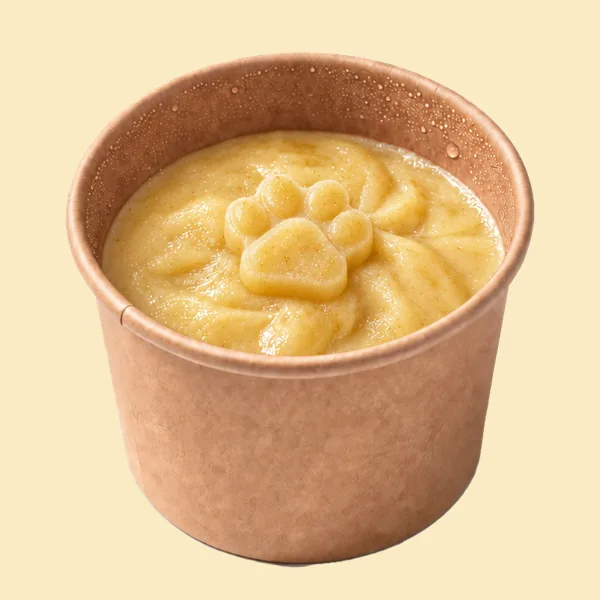
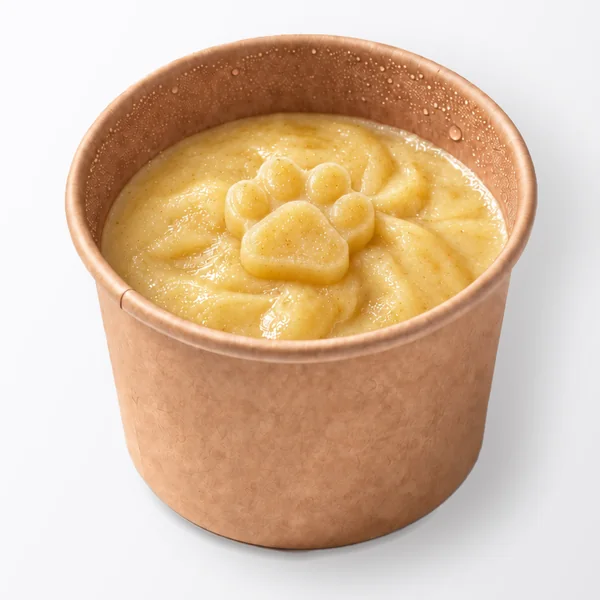
Upsell: same-name items grouped into one card with size choice; natural shadows on ice cream photos

diff --git a/js/results.js b/js/results.js
@@ -6,7 +6,7 @@
 (function () {
   const API = () => (window.PAWOLOGY_API_URL || "").trim();
   const cache = {};
-  let st = { status: "idle", stage: "form", key: "", data: null, selected: null, extras: {}, hp: "",
+  let st = { status: "idle", stage: "form", key: "", data: null, selected: null, extras: {}, extraVariant: {}, hp: "",
     contact: { name: "", phone: "", link: "", address: "", about: "" } };
   let el = null;
   let notify = () => {};
@@ -154,27 +154,54 @@
   // «100» → «100 г» / «100 g»; если единицы уже вписаны — как есть
   const weightText = (w) => (/^\d+([.,]\d+)?$/.test(String(w).trim()) ? String(w).trim() + (Store.get().lang === "en" ? " g" : " г") : w);
 
-  function extraCard(x, i) {
-    const sel = st.extras[x.id];
+  // товары с одинаковым названием — одна карточка с выбором граммовки (50 / 100 г …)
+  function extraGroups() {
+    const map = new Map();
+    extrasList().forEach((x) => {
+      const key = String(x.title.ru || x.id).trim().toLowerCase();
+      if (!map.has(key)) map.set(key, []);
+      map.get(key).push(x);
+    });
+    return [...map.values()].map((variants) => {
+      const base = variants.find((v) => v.img) || variants[0];
+      const sorted = variants.slice().sort((p, q) => (parseFloat(p.weight) || 0) - (parseFloat(q.weight) || 0));
+      return { id: variants[0].id, base, variants: sorted };
+    });
+  }
+  const groupById = (id) => extraGroups().find((g) => g.id === id);
+  const currentVariant = (g) => {
+    const vid = (st.extras[g.id] && st.extras[g.id].variant) || st.extraVariant[g.id] || g.variants[0].id;
+    return g.variants.find((v) => v.id === vid) || g.variants[0];
+  };
+
+  function priceHtml(x) {
+    return x.price ? `${x.oldPrice ? `<s>${x.oldPrice}₾</s>` : ""}<b>${x.price}₾</b>${x.discount ? `<span>(−${x.discount}%)</span>` : ""}` : "";
+  }
+
+  function extraCard(g, i) {
+    const x = g.base;
+    const v = currentVariant(g);
+    const sel = st.extras[g.id];
     const color = sel ? sel.color : x.colors && x.colors[0].id;
-    const price = x.price ? `<p class="x-card__price">
-        ${x.oldPrice ? `<s>${x.oldPrice}₾</s>` : ""}<b>${x.price}₾</b>${x.discount ? `<span>(−${x.discount}%)</span>` : ""}
-      </p>` : "";
-    return `<li class="x-item q-anim" style="--i:${i}">
+    const many = g.variants.length > 1;
+    return `<li class="x-item q-anim" style="--i:${i}" data-group="${g.id}">
       <div class="x-card ${sel ? "is-added" : ""}">
         <div class="x-card__top">
           <div class="x-card__photo ${x.img ? "" : "x-card__photo--empty"}" data-icon="${x.icon}">${x.img ? `<img src="assets/img/extras/${esc(x.img)}.webp" alt="" loading="lazy" onerror="this.parentNode.classList.add('x-card__photo--empty');this.parentNode.textContent=this.parentNode.dataset.icon">` : x.icon}</div>
           <div class="x-card__text">
-            <h4 class="x-card__title">${esc(L(x.title))}${x.weight ? `<span class="x-card__weight">${esc(weightText(x.weight))}</span>` : ""}</h4>
-            ${price}
+            <h4 class="x-card__title">${esc(L(x.title))}${!many && v.weight ? `<span class="x-card__weight">${esc(weightText(v.weight))}</span>` : ""}</h4>
+            <p class="x-card__price">${priceHtml(v)}</p>
           </div>
         </div>
         ${L(x.sub) ? `<p class="x-card__desc">${esc(L(x.sub))}</p>` : ""}
+        ${many ? `<div class="x-card__colors" role="radiogroup" aria-label="${t("ext.weight")}">
+          ${g.variants.map((w) => `<button type="button" class="x-chip" role="radio" data-extra-variant="${g.id}" data-value="${w.id}" aria-checked="${w.id === v.id}">${esc(weightText(w.weight) || "—")}</button>`).join("")}
+        </div>` : ""}
         ${x.colors ? `<div class="x-card__colors" role="radiogroup" aria-label="${t("ext.color")}">
-          ${x.colors.map((c) => `<button type="button" class="x-color" role="radio" data-extra-color="${x.id}" data-value="${c.id}" aria-checked="${c.id === color}" style="--c:${c.hex}"><i></i>${esc(L(c.title))}</button>`).join("")}
+          ${x.colors.map((c) => `<button type="button" class="x-color" role="radio" data-extra-color="${g.id}" data-value="${c.id}" aria-checked="${c.id === color}" style="--c:${c.hex}"><i></i>${esc(L(c.title))}</button>`).join("")}
         </div>` : ""}
       </div>
-      <button type="button" class="x-card__add" data-extra="${x.id}" aria-pressed="${!!sel}">${sel ? "✓ " + t("ext.added") : "+ " + t("ext.add")}</button>
+      <button type="button" class="x-card__add" data-extra="${g.id}" aria-pressed="${!!sel}">${sel ? "✓ " + t("ext.added") : "+ " + t("ext.add")}</button>
     </li>`;
   }
 
@@ -184,14 +211,16 @@
         <h3 class="r-h">${t("ext.title", { name })}</h3>
         <p class="q-sub">${t("ext.sub")}</p>
       </div>
-      <ul class="x-list">${extrasList().map(extraCard).join("")}</ul>`;
+      <ul class="x-list">${extraGroups().map(extraCard).join("")}</ul>`;
     notify();
   }
 
   function extrasForLead() {
-    return extrasList().filter((x) => st.extras[x.id]).map((x) => {
-      const c = x.colors && x.colors.find((k) => k.id === st.extras[x.id].color);
-      return x.title.ru + (c ? " (" + c.title.ru + ")" : "");
+    return extraGroups().filter((g) => st.extras[g.id]).map((g) => {
+      const v = currentVariant(g);
+      const c = g.base.colors && g.base.colors.find((k) => k.id === st.extras[g.id].color);
+      return g.base.title.ru + (g.variants.length > 1 && v.weight ? " " + weightText(v.weight) : "")
+        + (c ? " (" + c.title.ru + ")" : "") + (v.price ? " — " + v.price + " ₾" : "");
     });
   }
 
@@ -258,18 +287,30 @@
       }
       const add = e.target.closest("[data-extra]");
       if (add) {
-        const x = (window.EXTRAS || []).find((k) => k.id === add.dataset.extra);
+        const g = groupById(add.dataset.extra);
         const item = add.closest(".x-item");
         const card = item.querySelector(".x-card");
-        if (st.extras[x.id]) delete st.extras[x.id];
-        else st.extras[x.id] = { color: x.colors ? (card.querySelector('[aria-checked="true"]') || {}).dataset?.value || x.colors[0].id : null };
+        if (st.extras[g.id]) delete st.extras[g.id];
+        else {
+          const col = card.querySelector("[data-extra-color][aria-checked='true']");
+          st.extras[g.id] = { variant: currentVariant(g).id, color: g.base.colors ? (col ? col.dataset.value : g.base.colors[0].id) : null };
+        }
         // меняем только эту карточку — без перерисовки всего экрана
-        const on = !!st.extras[x.id];
+        const on = !!st.extras[g.id];
         item.classList.remove("q-anim");
         card.classList.toggle("is-added", on);
         add.setAttribute("aria-pressed", String(on));
         add.textContent = on ? "✓ " + t("ext.added") : "+ " + t("ext.add");
         return notify();
+      }
+      const vbtn = e.target.closest("[data-extra-variant]");
+      if (vbtn) {
+        const g = groupById(vbtn.dataset.extraVariant);
+        st.extraVariant[g.id] = vbtn.dataset.value;
+        if (st.extras[g.id]) st.extras[g.id].variant = vbtn.dataset.value;
+        vbtn.parentElement.querySelectorAll("[data-extra-variant]").forEach((b) => b.setAttribute("aria-checked", String(b === vbtn)));
+        vbtn.closest(".x-item").querySelector(".x-card__price").innerHTML = priceHtml(currentVariant(g));
+        return;
       }
       const col = e.target.closest("[data-extra-color]");
       if (col) {

diff --git a/index.html b/index.html
@@ -14,15 +14,15 @@
 
   <link rel="preload" as="image" href="assets/img/dog-hero.webp">
 
-  <link rel="stylesheet" href="css/tokens.css?v=43">
-  <link rel="stylesheet" href="css/base.css?v=43">
-  <link rel="stylesheet" href="css/header.css?v=43">
-  <link rel="stylesheet" href="css/hero.css?v=43">
-  <link rel="stylesheet" href="css/intro.css?v=43">
-  <link rel="stylesheet" href="css/benefits.css?v=43">
-  <link rel="stylesheet" href="css/how.css?v=43">
-  <link rel="stylesheet" href="css/footer.css?v=43">
-  <link rel="stylesheet" href="css/quiz.css?v=43">
+  <link rel="stylesheet" href="css/tokens.css?v=44">
+  <link rel="stylesheet" href="css/base.css?v=44">
+  <link rel="stylesheet" href="css/header.css?v=44">
+  <link rel="stylesheet" href="css/hero.css?v=44">
+  <link rel="stylesheet" href="css/intro.css?v=44">
+  <link rel="stylesheet" href="css/benefits.css?v=44">
+  <link rel="stylesheet" href="css/how.css?v=44">
+  <link rel="stylesheet" href="css/footer.css?v=44">
+  <link rel="stylesheet" href="css/quiz.css?v=44">
 </head>
 <body data-pet="dog">
 
@@ -115,7 +115,7 @@
 
         <div class="hero__pets" aria-hidden="true">
           <img class="hero__pet hero__pet--dog" src="assets/img/dog-hero.webp" alt="">
-          <img class="hero__pet hero__pet--cat" src="assets/img/cat-hero.webp?v=43" alt="" loading="lazy">
+          <img class="hero__pet hero__pet--cat" src="assets/img/cat-hero.webp?v=44" alt="" loading="lazy">
         </div>
 
         <!-- еда на среднем и ближнем плане -->
@@ -324,18 +324,18 @@
   </div>
 
 
-  <script src="js/config.js?v=43"></script>
-  <script src="js/i18n.js?v=43"></script>
-  <script src="js/state.js?v=43"></script>
-  <script src="js/header.js?v=43"></script>
-  <script src="js/hero.js?v=43"></script>
-  <script src="js/reveal.js?v=43"></script>
-  <script src="js/breeds.js?v=43"></script>
-  <script src="js/combo.js?v=43"></script>
-  <script src="js/quiz-steps.js?v=43"></script>
-  <script src="js/extras.js?v=43"></script>
-  <script src="js/results.js?v=43"></script>
-  <script src="js/quiz.js?v=43"></script>
-  <script src="js/main.js?v=43"></script>
+  <script src="js/config.js?v=44"></script>
+  <script src="js/i18n.js?v=44"></script>
+  <script src="js/state.js?v=44"></script>
+  <script src="js/header.js?v=44"></script>
+  <script src="js/hero.js?v=44"></script>
+  <script src="js/reveal.js?v=44"></script>
+  <script src="js/breeds.js?v=44"></script>
+  <script src="js/combo.js?v=44"></script>
+  <script src="js/quiz-steps.js?v=44"></script>
+  <script src="js/extras.js?v=44"></script>
+  <script src="js/results.js?v=44"></script>
+  <script src="js/quiz.js?v=44"></script>
+  <script src="js/main.js?v=44"></script>
 </body>
 </html>

diff --git a/js/i18n.js b/js/i18n.js
@@ -141,6 +141,7 @@
       "ext.add": "Добавить к заказу",
       "ext.added": "Добавлено",
       "ext.color": "Цвет",
+      "ext.weight": "Граммовка",
       "ext.skip": "Пропустить",
       "ext.continue": "Продолжить",
       "res.sent.title": (v) => (v.name ? `${v.name}, заявка отправлена! 🎉` : "Заявка отправлена! 🎉"),
@@ -308,6 +309,7 @@
       "ext.add": "Add to order",
       "ext.added": "Added",
       "ext.color": "Colour",
+      "ext.weight": "Size",
       "ext.skip": "Skip",
       "ext.continue": "Continue",
       "res.sent.title": (v) => (v.name ? `${v.name}, your request is sent! 🎉` : "Request sent! 🎉"),

diff --git a/css/quiz.css b/css/quiz.css
@@ -409,3 +409,11 @@
   .q-step.is-extras .x-card { padding: 20px; }
   .q-step.is-extras .x-card__title { font-size: 21px; }
 }
+
+/* выбор граммовки — как кнопки цвета */
+.x-chip {
+  height: 36px; min-width: 64px; padding: 0 14px; border-radius: var(--r-pill);
+  background: #fff; border: 1.5px solid var(--line); font-size: 14px; font-weight: 700; color: var(--ink-2);
+  transition: border-color .25s, color .25s;
+}
+.x-chip[aria-checked="true"] { border-color: var(--ink); color: var(--ink); }
